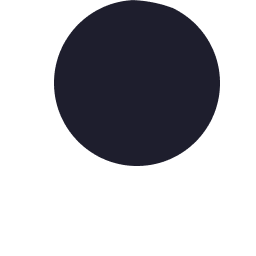
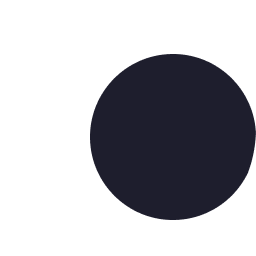
Eye position and glow near head fixes

diff --git a/client_dev/src/game.ts b/client_dev/src/game.ts
@@ -1,5 +1,5 @@
 import { Texture, Sprite, Container, TilingSprite, Graphics, TextStyle, Text, NineSliceSprite } from "pixi.js";
-import { initAssets } from "./asset";
+import { initAssets, leftEyeTexture, rightEyeTexture } from "./asset";
 import { setupWebsocket } from "./websocket";
 import { app as PIXIApp } from "./main";
 import { rgbToHex, randomNumber, adjustBrightnessRGB, drawDebugRect, calculateLerp } from "./utils";
@@ -156,7 +156,6 @@ export function process() {
     obj.x = calculateLerp(obj.x, obj.tx, GameState.LERPP);
     obj.y = calculateLerp(obj.y, obj.ty, GameState.LERPP);
 
-    // NEW: smooth width/height toward target (kept gentle like your original)
     if (obj.targetWidth !== undefined) {
       obj.width = calculateLerp(obj.width, obj.targetWidth, GameState.LERPP * 0.5);
     }
@@ -164,7 +163,6 @@ export function process() {
       obj.height = calculateLerp(obj.height, obj.targetHeight, GameState.LERPP * 0.5);
     }
 
-    // existing: keep eyes on the head and rotate toward input
     if (obj.EYES !== null) {
       obj.EYES.x = obj.x;
       obj.EYES.y = obj.y;
@@ -172,8 +170,9 @@ export function process() {
 
     obj.onViewUpdate?.();
 
+    const radius = obj.height / 2;
     if (obj.EYES1 !== null) {
-      const rxy = rotate_by_pivot(obj.x, obj.y, obj.rotation, obj.width / 3.5, -obj.width / 5);
+      const rxy = rotate_by_pivot(obj.x, obj.y, obj.rotation, radius * 0.45, -radius * 0.4596);
       obj.EYES1.x = rxy[0];
       obj.EYES1.y = rxy[1];
       if (GameState.INPUT) {
@@ -183,7 +182,7 @@ export function process() {
     }
 
     if (obj.EYES2 !== null) {
-      const lxy = rotate_by_pivot(obj.x, obj.y, obj.rotation, obj.width / 3.5, obj.width / 5);
+      const lxy = rotate_by_pivot(obj.x, obj.y, obj.rotation, radius * 0.45, radius * 0.4596);
       obj.EYES2.x = lxy[0];
       obj.EYES2.y = lxy[1];
       if (GameState.INPUT) {
@@ -205,9 +204,7 @@ export function process() {
         if (Math.abs(currentAlpha - targetAlpha) < 0.01) {
           obj.GLOW.alpha = targetAlpha;
           obj.GLOW_ANIMATING = false;
-          if (targetAlpha === 0) obj.GLOW.visible = false;
         } else {
-          obj.GLOW.visible = true;
           obj.GLOW.alpha = calculateLerp(currentAlpha, targetAlpha, glowSpeed);
         }
       }
@@ -463,13 +460,14 @@ function onUpdate(pid: number, data: any){
               snakeObject.EYES.rotation = angle;
           }
           if(snakeObject.EYES1 !== null){
-              snakeObject.EYES1.width = width * 1.375;
-              snakeObject.EYES1.height = height * 1.375;
+              snakeObject.EYES1.width = radius * 0.9285;
+              snakeObject.EYES1.height = radius * 0.9285;
+              console.log(snakeObject.EYES1.width, snakeObject.EYES1.height);
               snakeObject.EYES1.rotation = angle;
           }
           if(snakeObject.EYES2 !== null){
-              snakeObject.EYES2.width = width * 1.375;
-              snakeObject.EYES2.height = height * 1.375;
+              snakeObject.EYES2.width = radius * 0.9285;
+              snakeObject.EYES2.height = radius * 0.9285;
               snakeObject.EYES2.rotation = angle;
           }
 
@@ -588,12 +586,8 @@ function onUpdate(pid: number, data: any){
               unitObject = CreateSegment(bodyTexture4, x, y, z, width, height, 1);
               if(id === pid.toString()){
                   unitObject.EYES = null;
-                  unitObject.EYES1 = CreateCircle(eyeTexture, x, y, z + 1, 1);
-                  unitObject.EYES1.width = width * 1.375;
-                  unitObject.EYES1.height = height * 1.375;
-                  unitObject.EYES2 = CreateCircle(eyeTexture, x, y, z + 1, 1);
-                  unitObject.EYES2.width = width * 1.375;
-                  unitObject.EYES2.height = height * 1.375;
+                  unitObject.EYES1 = CreateCircle(leftEyeTexture, x, y, z + 1, 1);
+                  unitObject.EYES2 = CreateCircle(rightEyeTexture, x, y, z + 1, 1);
               }
               else {
                   unitObject.EYES1 = null;

diff --git a/client_dev/src/asset.ts b/client_dev/src/asset.ts
@@ -3,6 +3,8 @@ import { Assets, Texture } from "pixi.js";
 export let headTexture: Texture;
 export let eyesTexture: Texture;
 export let eyeTexture: Texture;
+export let leftEyeTexture: Texture;
+export let rightEyeTexture: Texture;
 export let bodyTexture1: Texture;
 export let bodyTexture2: Texture;
 export let bodyTexture3: Texture;
@@ -14,6 +16,8 @@ export async function initAssets() {
     headTexture = await Assets.load('assets/img/ch.png');//Head
     eyesTexture = await Assets.load('assets/img/c0.png');//Eyes
     eyeTexture = await Assets.load('assets/img/c0b.png');//eyes for player
+    leftEyeTexture = await Assets.load('assets/img/snake_eye_left.png');//left eye for player
+    rightEyeTexture = await Assets.load('assets/img/snake_eye_right.png');//right eye for player
     bodyTexture1 = await Assets.load('assets/img/c1.png');
     bodyTexture2 = await Assets.load('assets/img/c2.png');
     bodyTexture3 = await Assets.load('assets/img/c3.png');
